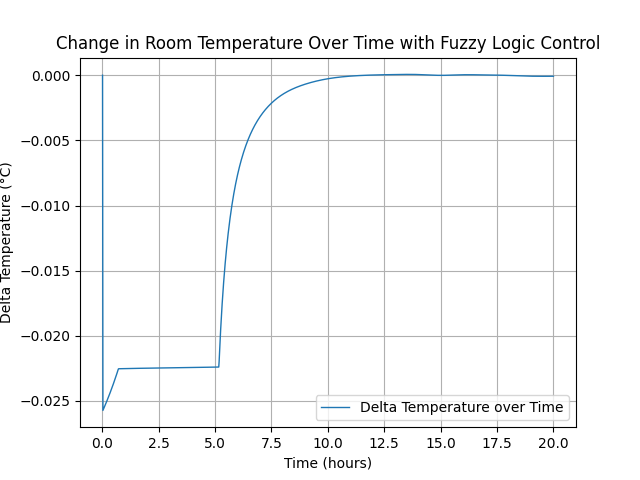
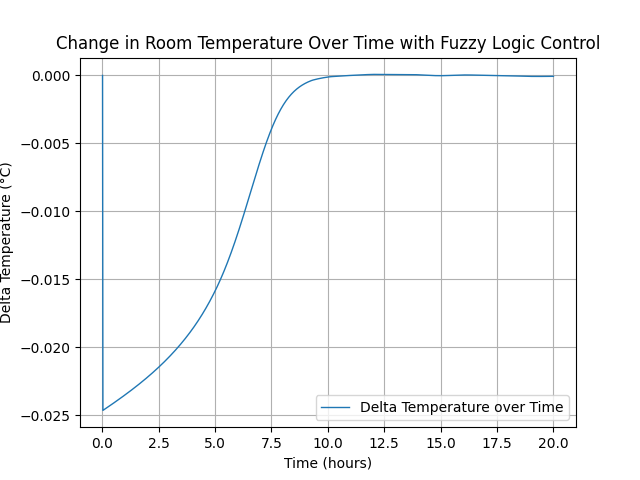
some results

diff --git a/fuzzy_rules.py b/fuzzy_rules.py
@@ -6,6 +6,7 @@ hum = variables['humidity']
 ac_heater = variables['ac_heater_power']
 delta_temp = variables['delta_temperature']
 delta_hum = variables['delta_humidity']
+humidifier_dehumidifier = variables['humidifier_dehumidifier_power']
 
 rules = []
 
@@ -76,6 +77,13 @@ delta_temp_only_rules = [
 ]
 rules.extend(delta_temp_only_rules)
 
+delta_hum_only_rules = [
+    ctrl.Rule(delta_hum['decreasing'], humidifier_dehumidifier['humidifying']),
+    ctrl.Rule(delta_hum['stable'], humidifier_dehumidifier['off']),
+    ctrl.Rule(delta_hum['increasing'], humidifier_dehumidifier['dehumidifying'])
+]
+rules.extend(delta_hum_only_rules)
+
 delta_hum_and_hum_rules = [
     ctrl.Rule(hum['dry'] & delta_hum['decreasing'], ac_heater['heating']),
     ctrl.Rule(hum['dry'] & delta_hum['stable'], ac_heater['heating']),
@@ -85,7 +93,16 @@ delta_hum_and_hum_rules = [
     ctrl.Rule(hum['comfortable'] & delta_hum['increasing'], ac_heater['cooling']),
     ctrl.Rule(hum['humid'] & delta_hum['decreasing'], ac_heater['off']),
     ctrl.Rule(hum['humid'] & delta_hum['stable'], ac_heater['cooling']),
-    ctrl.Rule(hum['humid'] & delta_hum['increasing'], ac_heater['cooling'])
+    ctrl.Rule(hum['humid'] & delta_hum['increasing'], ac_heater['cooling']),
+    ctrl.Rule(hum['dry'] & delta_hum['decreasing'], humidifier_dehumidifier['humidifying']),
+    ctrl.Rule(hum['dry'] & delta_hum['stable'], humidifier_dehumidifier['off']),
+    ctrl.Rule(hum['dry'] & delta_hum['increasing'], humidifier_dehumidifier['off']),
+    ctrl.Rule(hum['comfortable'] & delta_hum['decreasing'], humidifier_dehumidifier['humidifying']),
+    ctrl.Rule(hum['comfortable'] & delta_hum['stable'], humidifier_dehumidifier['off']),
+    ctrl.Rule(hum['comfortable'] & delta_hum['increasing'], humidifier_dehumidifier['dehumidifying']),
+    ctrl.Rule(hum['humid'] & delta_hum['decreasing'], humidifier_dehumidifier['off']),
+    ctrl.Rule(hum['humid'] & delta_hum['stable'], humidifier_dehumidifier['dehumidifying']),
+    ctrl.Rule(hum['humid'] & delta_hum['increasing'], humidifier_dehumidifier['dehumidifying'])
 ]
 
 rules.extend(delta_hum_and_hum_rules)

diff --git a/membership_functions.py b/membership_functions.py
@@ -34,6 +34,10 @@ ac_heater_power['cooling'] = 1 - fuzz.trapmf(universes['ac_heater_power'], [-50,
 ac_heater_power['off'] = fuzz.trimf(universes['ac_heater_power'], [-10, 0, 10])
 ac_heater_power['heating'] = fuzz.trimf(universes['ac_heater_power'], [0, mm.AC_HEATER_POWER_MAX, mm.AC_HEATER_POWER_MAX])
 
+humidifier_dehumidifier_power = ctrl.Consequent(universes['humidifier_dehumidifier_power'], 'humidifier_dehumidifier_power')
+humidifier_dehumidifier_power['dehumidifying'] = 1 - fuzz.trapmf(universes['humidifier_dehumidifier_power'], [-50, 0, mm.HUMIDIFIER_DEHUMIDIFIER_POWER_MAX, mm.HUMIDIFIER_DEHUMIDIFIER_POWER_MAX])
+humidifier_dehumidifier_power['off'] = fuzz.trimf(universes['humidifier_dehumidifier_power'], [-10, 0, 10])
+humidifier_dehumidifier_power['humidifying'] = fuzz.trimf(universes['humidifier_dehumidifier_power'], [0, mm.HUMIDIFIER_DEHUMIDIFIER_POWER_MAX, mm.HUMIDIFIER_DEHUMIDIFIER_POWER_MAX])
 # Weighted cooling (1.5x importance, but clamped to max 1.0)
 #ac_heater_power['cooling_temp'] = np.minimum(ac_heater_power['cooling'].mf * 1.5, 1.0)
 
@@ -44,8 +48,10 @@ ac_heater_power['heating'] = fuzz.trimf(universes['ac_heater_power'], [0, mm.AC_
 #ac_heater_power['off_temp'] = np.minimum(ac_heater_power['off'].mf * 1.5, 1.0)
 
 variables = {'temperature': temperature, 'humidity': humidity, 'ac_heater_power': ac_heater_power,
+             'humidifier_dehumidifier_power': humidifier_dehumidifier_power,
              'delta_temperature': delta_temperature, 
              'delta_humidity': delta_humidity
             }
+
 units = {'temperature': '°C', 'humidity': '%', 'delta_temperature': '°C', 'delta_humidity': '%',
-         'ac_heater_power': '%'}
+         'ac_heater_power': '%', 'humidifier_dehumidifier_power': '%'}

diff --git a/firstRun.py b/firstRun.py
@@ -46,15 +46,14 @@ while cur_time < max_time:
     simulator.input['humidity'] = cur_hum
     simulator.input['delta_temperature'] = cur_delta_temp
     simulator.input['delta_humidity'] = cur_delta_hum
-
     # Compute the control action
     simulator.compute()
 
     # Get the output values
     heating_power = simulator.output['ac_heater_power']
-    #humidifier_power = simulator.output['humidifier_power']
+    humidifier_power = simulator.output['humidifier_dehumidifier_power']
 
-    new_data = calc_new_temp_and_hum(cur_temp, cur_hum, heating_power, cur_time, seconds, splines, max_ac_power, wall_heat_loss_factor)
+    new_data = calc_new_temp_and_hum(cur_temp, cur_hum, heating_power, humidifier_power, cur_time, seconds, splines, max_ac_power, wall_heat_loss_factor)
     new_temp = new_data['temperature']
     new_hum = new_data['humidity']
 
@@ -79,7 +78,16 @@ plt.ylabel('Temperature (°C)')
 plt.title('Room Temperature Over Time with Fuzzy Logic Control')
 plt.grid()
 plt.legend()
-plt.savefig('temperature_over_time.png')
+plt.savefig('results/temperature_over_time.png')
+plt.clf()
+
+plt.plot(times, hums, label='Humidity over Time', lw = 1)
+plt.xlabel('Time (hours)')
+plt.ylabel('Humidity (%)')
+plt.title('Room Humidity Over Time with Fuzzy Logic Control')
+plt.grid()
+plt.legend()
+plt.savefig('results/humidity_over_time.png')
 plt.clf()
 
 times.pop(0)
@@ -90,6 +98,6 @@ plt.ylabel('Delta Temperature (°C)')
 plt.title('Change in Room Temperature Over Time with Fuzzy Logic Control')
 plt.grid()
 plt.legend()
-plt.savefig('delta_temperature_over_time.png')
+plt.savefig('results/delta_temperature_over_time.png')
 
 #print( list( map( float, temps) ) )

diff --git a/environment_simulator.py b/environment_simulator.py
@@ -27,7 +27,7 @@ def celsius_to_kelvin(temp_c):
 def kelvin_to_celsius(temp_k):
     return temp_k - 273.15
 
-def calc_new_temp_and_hum(temp, humidity, ac_heater_control, hour, step_seconds, splines, ac_heater_max_power=1000, wall_heat_loss_factor=1):
+def calc_new_temp_and_hum(temp, humidity, ac_heater_control, humidifier_control, hour, step_seconds, splines, ac_heater_max_power=1000, humidifier_max_change=2, wall_heat_loss_factor=1):
 
     #ac_heater_max_power = 1000  # in Watts
 
@@ -50,8 +50,8 @@ def calc_new_temp_and_hum(temp, humidity, ac_heater_control, hour, step_seconds,
     # 5 second step
     temp_change = (sum_power * step_seconds) / (air_mass * specific_heat)  # in Kelvin
 
-    humidity_change = humidity
-    return {"temperature": temp + temp_change, "humidity": humidity, "outdoor_temperature": outdoor_temp}
+    humidity_change =  humidifier_control / 100 * humidifier_max_change  * step_seconds
+    return {"temperature": temp + temp_change, "humidity": humidity + humidity_change, "outdoor_temperature": outdoor_temp}
 
 #print(f"Step hours: {step_hours}")
 #for i in range(24*14):

diff --git a/universes.py b/universes.py
@@ -7,7 +7,7 @@ TEMP_UNIVERSE = np.linspace(mm.TEMP_MIN, mm.TEMP_MAX, NUM_POINTS)  # Temperature
 HUM_UNIVERSE = np.linspace(mm.HUM_MIN, mm.HUM_MAX, NUM_POINTS)    # Humidity range from 0 to 100%
 
 AC_HEATER_POWER_UNIVERSE = np.linspace(mm.AC_HEATER_POWER_MIN, mm.AC_HEATER_POWER_MAX, NUM_POINTS)  # AC/Heater power range from -100 to 100
-
+HUM_DEHUM_POWER_UNIVERSE = np.linspace(mm.HUMIDIFIER_DEHUMIDIFIER_POWER_MIN, mm.HUMIDIFIER_DEHUMIDIFIER_POWER_MAX, NUM_POINTS)  # Humidifier/Dehumidifier power range from -100 to 100
 
 DELTA_TEMP_UNIVERSE = np.linspace(mm.DELTA_TEMP_MIN, mm.DELTA_TEMP_MAX, NUM_POINTS)  # Delta temperature range from -10 to 10 degrees Celsius
 DELTA_HUM_UNIVERSE = np.linspace(mm.DELTA_HUM_MIN, mm.DELTA_HUM_MAX, NUM_POINTS)  # Delta humidity range from -20 to 20%
@@ -16,6 +16,7 @@ universes = {
     'temperature': TEMP_UNIVERSE,
     'humidity': HUM_UNIVERSE,
     'ac_heater_power': AC_HEATER_POWER_UNIVERSE,
+    'humidifier_dehumidifier_power': HUM_DEHUM_POWER_UNIVERSE,
     'delta_temperature': DELTA_TEMP_UNIVERSE,
     'delta_humidity': DELTA_HUM_UNIVERSE
 }

diff --git a/membership_function_grapher.py b/membership_function_grapher.py
@@ -20,7 +20,7 @@ for var_name, fuzzySets in variables.items():
     var_title = var_name.replace('_', ' ').title()
     if var_title.startswith('Ac'):
         var_title = var_title.replace('Ac ', 'AC/')
-        
+    print(f"Saving plot for {var_title} membership functions...")
     plt.title(var_title + ' Membership Functions', fontweight='bold')
     plt.xlabel(var_title + ' (' + units[var_name] + ')')
     plt.ylabel('Membership')

diff --git a/mins_maxs.py b/mins_maxs.py
@@ -7,6 +7,9 @@ HUM_MAX = 100
 AC_HEATER_POWER_MIN = -100
 AC_HEATER_POWER_MAX = 100
 
+HUMIDIFIER_DEHUMIDIFIER_POWER_MIN = -100
+HUMIDIFIER_DEHUMIDIFIER_POWER_MAX = 100
+
 DELTA_TEMP_MIN = -10
 DELTA_TEMP_MAX = 10
 
